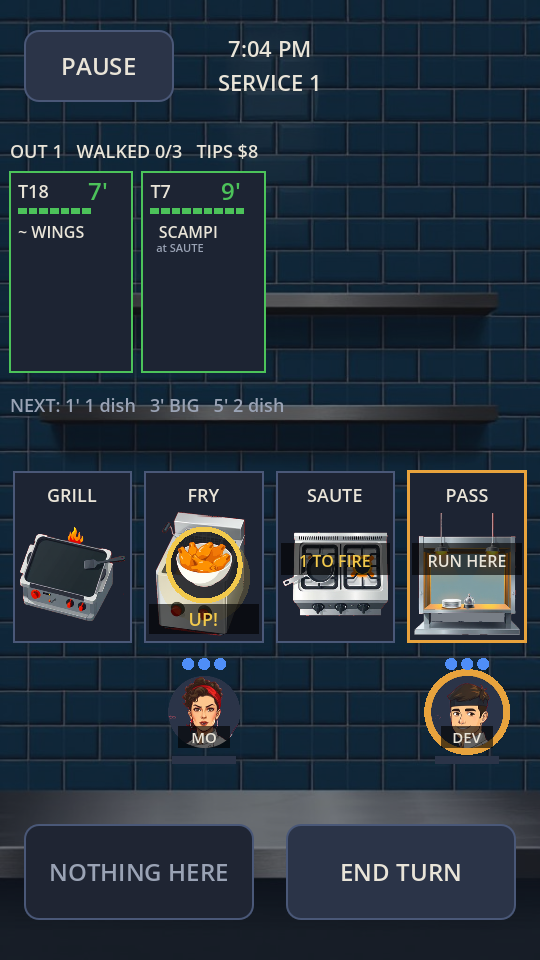
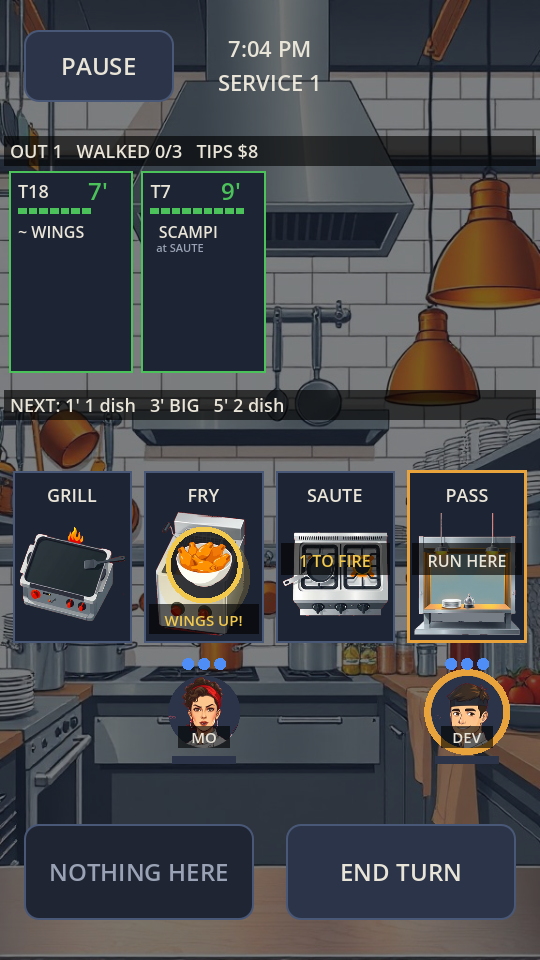
Kitchen background: busy line wall, text on plates (#8)
* Real art, part 1: kitchen wall and the four stations

Forge renders in style A (flat ink), cut to transparent PNGs and cleaned
(key spill, a fake brand name on the fryer). The wall sits under a 55% dark
wash so text stays readable; text on art gets a dark plate. Every state a
player reads (pans, clocks, rings) is still drawn in code on top.

Claude-Session: https://claude.ai/code/session_01V3sbxLu4c4oLEvnvp25i9E

* Real art, part 2: cook portraits and dish icons

DEV and MO get round portrait tokens (name on a plate), each pan shows its
dish icon inside the state ring, and a carried plate rides on the cook's
shoulder. Pan state is still spelled out (2', UP!, BURN!) with a thicker ring
before a burn, so colour and art never carry it alone.

Claude-Session: https://claude.ai/code/session_01V3sbxLu4c4oLEvnvp25i9E

* Real art, part 3: fries reroll + art log

Claude-Session: https://claude.ai/code/session_01V3sbxLu4c4oLEvnvp25i9E

* Kitchen background: busy line wall, text on plates

Duff asked for a more kitchen-like background. New Forge take (hood,
hanging pans, heat lamps, stove line); status, NEXT, carried plate and
WALKED OUT text now sit on dark plates so they read over it. Pan text
names the dish on UP/BURN (fresh-eyes note from #7).

Claude-Session: https://claude.ai/code/session_01V3sbxLu4c4oLEvnvp25i9E

* Pan label fits at every text size; NEXT plate under the +N count

Fresh-eyes on #8: 'BURGER BURN!' spilled into the next station at text
[…]

diff --git a/docs/ART_LOG.md b/docs/ART_LOG.md
@@ -3,7 +3,7 @@
 Every piece of real art in Rush: the Forge job, its seed, what was done to it, and Duff's verdict.
 Forge jobs live in the public Foxboard repo (`forge/jobs/<id>.json`, prompts included).
 
-## Style A "flat ink" (Claude's pick, Nov 25, 2026; Duff's style card still open; style test: `rush-style-{a,b,c}-20261125`)
+## Style A "flat ink" (Duff picked it Nov 25, 2026; style test: `rush-style-{a,b,c}-20261125`)
 Style line used in every prompt: "Bold flat vector illustration with thick dark ink outlines, chunky
 simple shapes and big readable silhouettes, like a polished mobile strategy game. Warm palette of
 brushed steel greys, hot orange flame, tomato red and mustard yellow, lit by even soft top light
@@ -11,7 +11,7 @@ with crisp edges." Props/icons keyed on magenta (#FF00FF).
 
 | File | Forge job / take | Seed | Cleanup | Verdict |
 | --- | --- | --- | --- | --- |
-| `assets/art/bg_line.jpg` | rush-bg-a-20261125 / 0 | 24812 | none; drawn under a 55% dark wash | waiting on Duff |
+| `assets/art/bg_line.jpg` | rush-bg-kitchen-20261125 / 2 | 5150 | none; drawn under a 55% dark wash, text on dark plates. Replaced the plain tile wall (rush-bg-a, Duff: "more kitchen like") | waiting on Duff |
 | `assets/art/station_grill.png` | rush-st-grill-20261125 / 0 | 24812 | `art_loop.py cut --height 256` | waiting on Duff |
 | `assets/art/station_fryer.png` | rush-st-fryer-20261125 / 0 | 24812 | cut; fake brand text painted out; key shadow removed | waiting on Duff |
 | `assets/art/station_saute.png` | rush-st-saute-20261125 / 0 | 24812 | cut | waiting on Duff |
